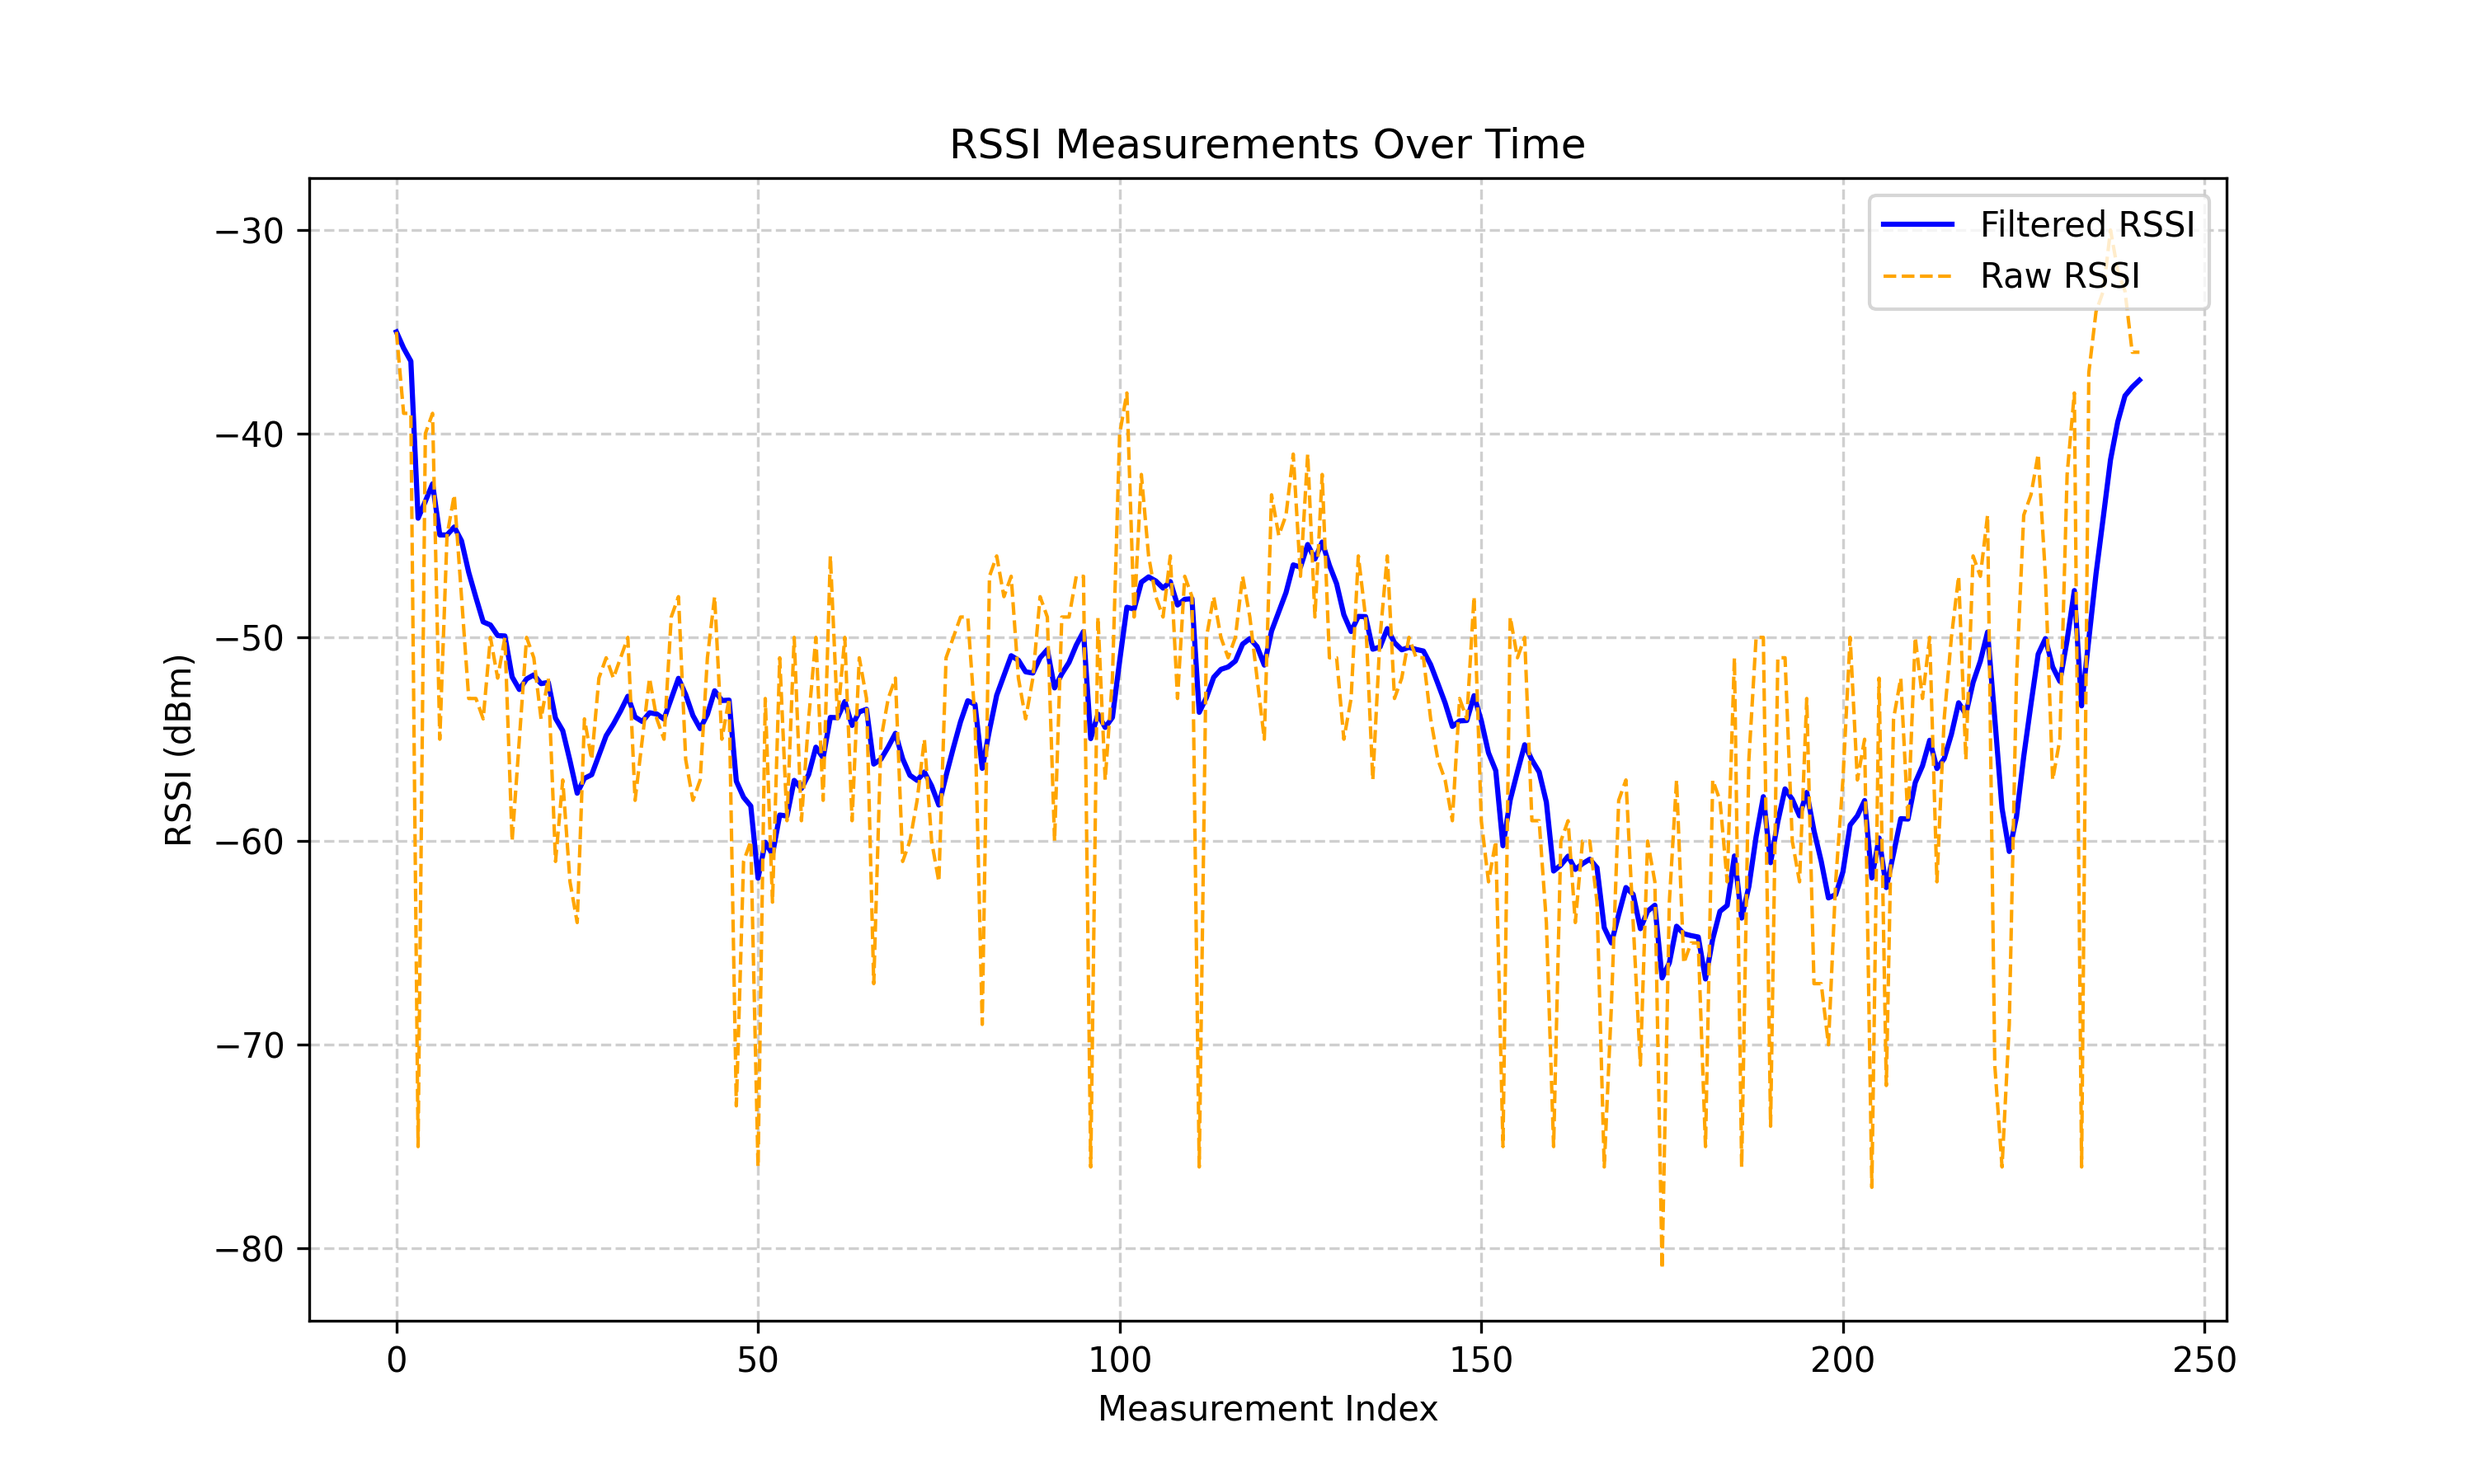
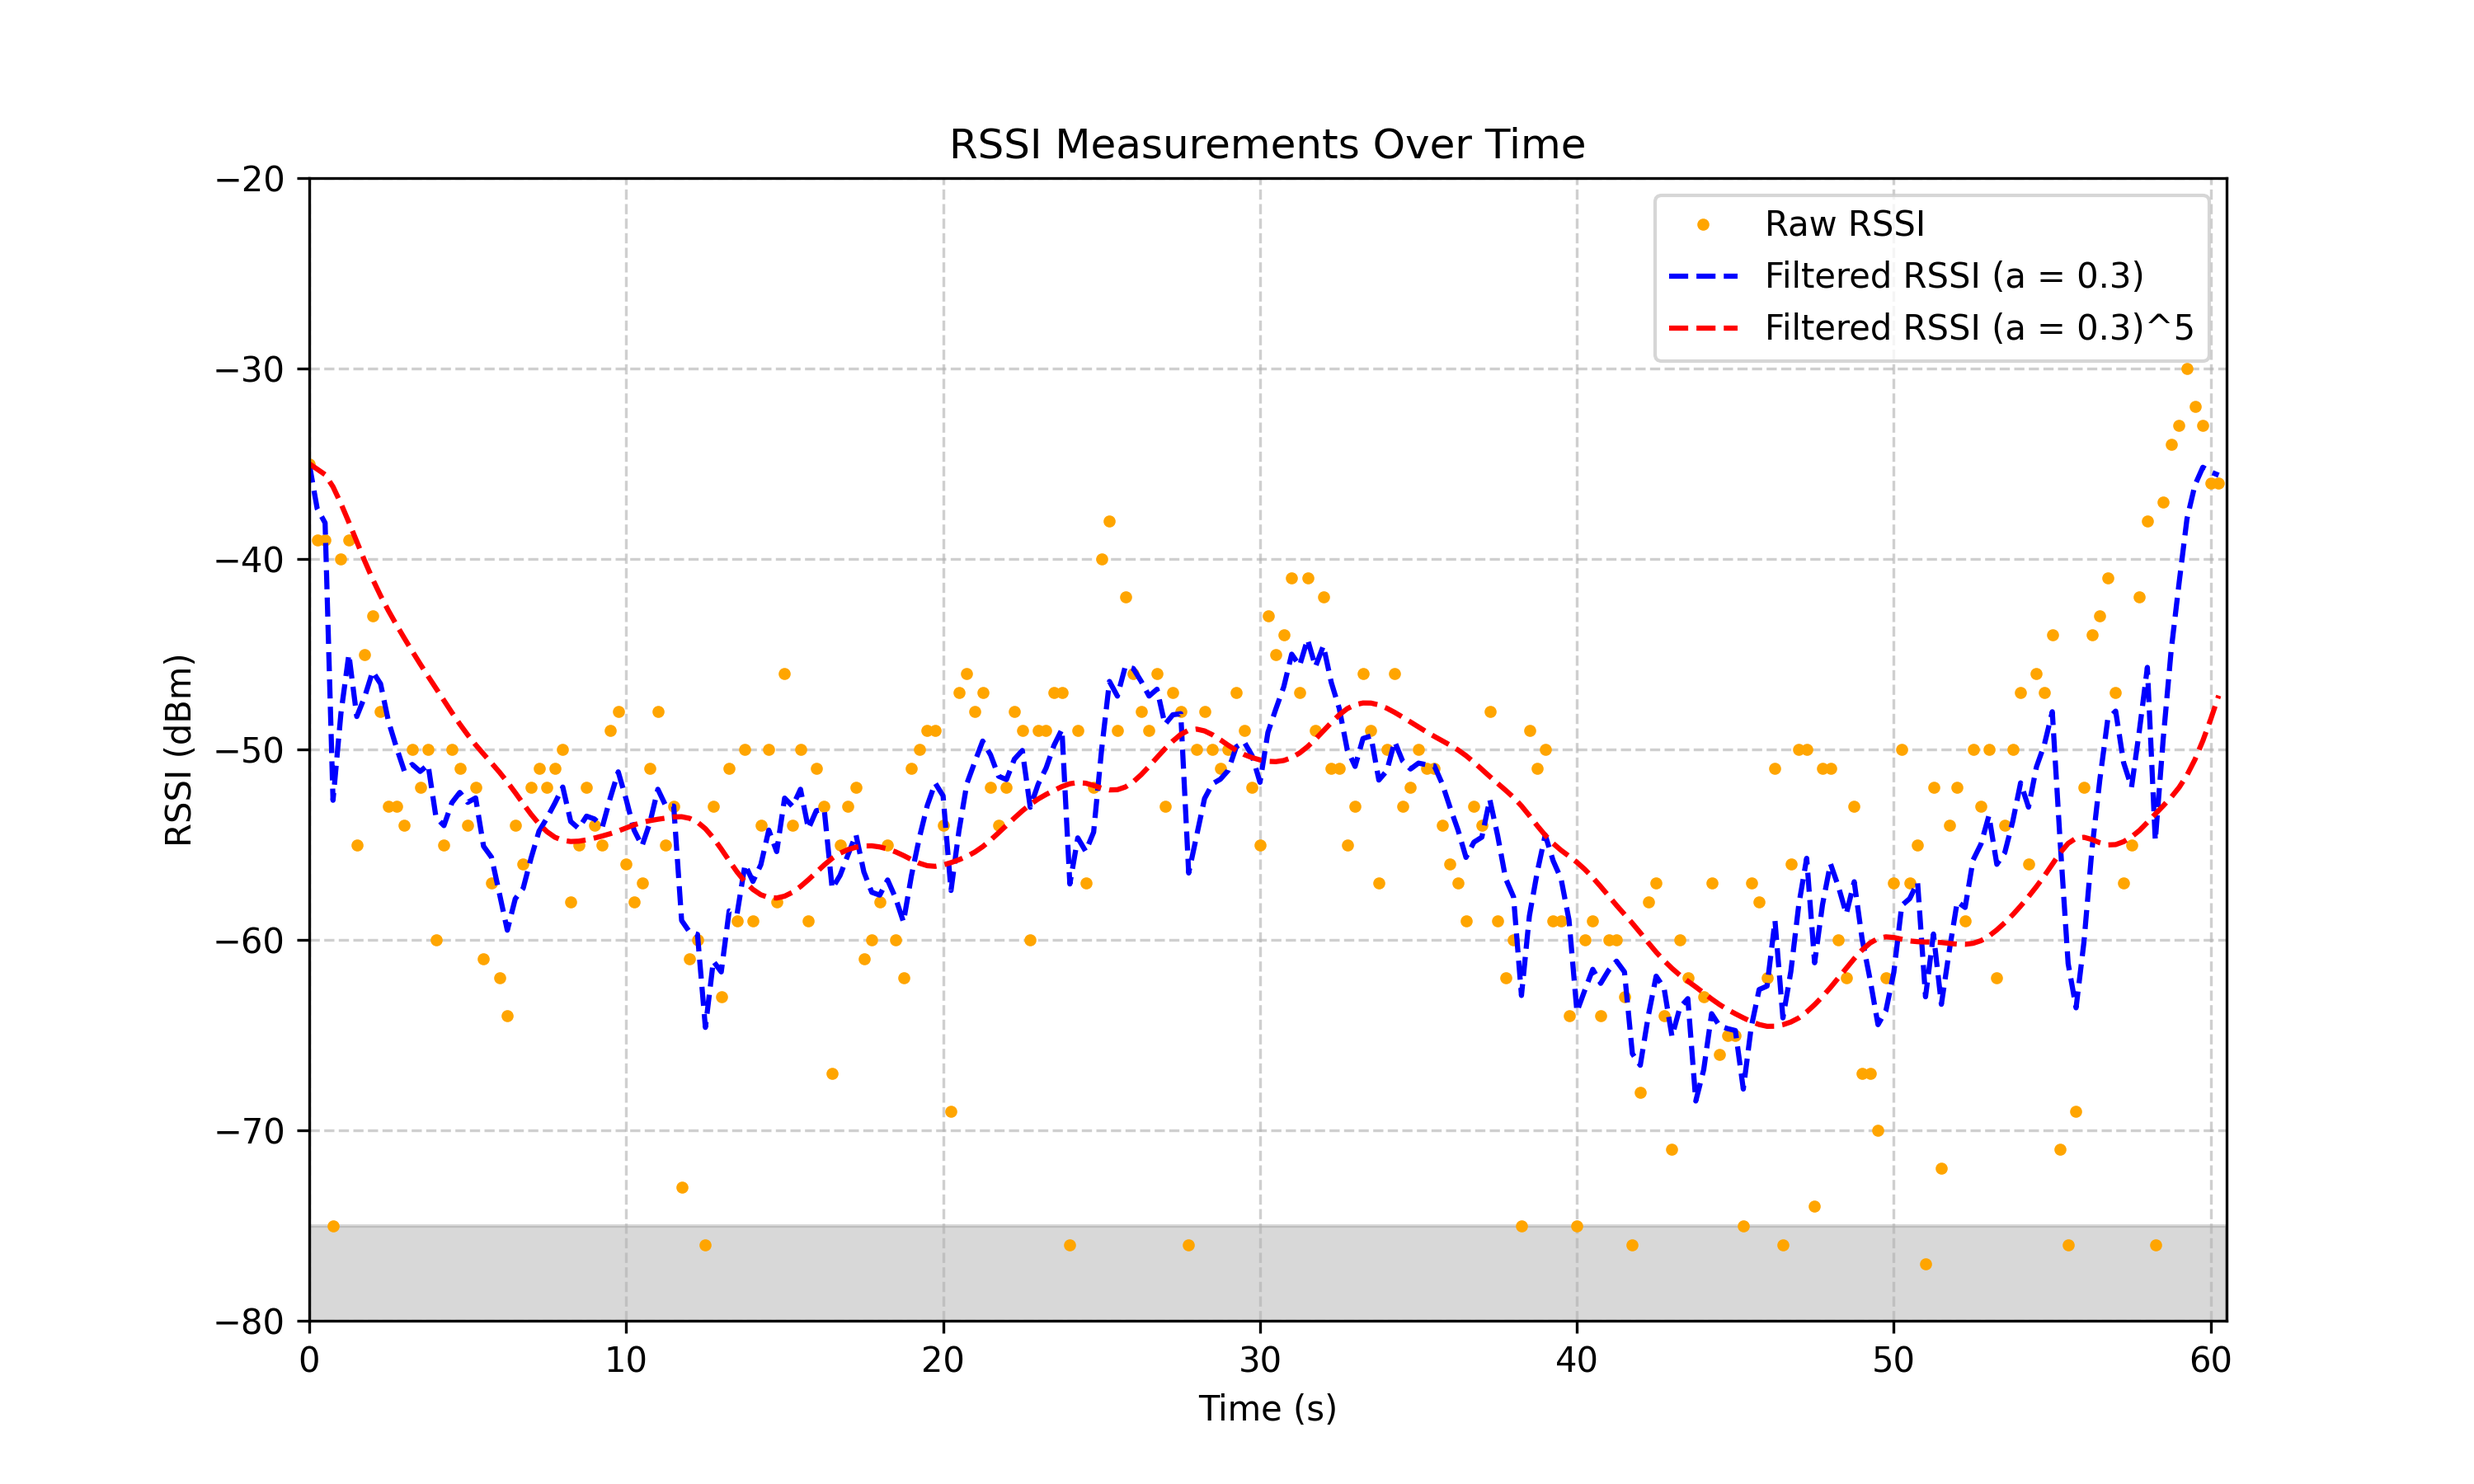
Expand plot with higher order filter and extra visualisation

diff --git a/measurements/plot_measurements.py b/measurements/plot_measurements.py
@@ -1,22 +1,48 @@
 import pandas as pd
 import matplotlib.pyplot as plt
 
+def get_moving_avg_data(data: pd.Series, alpha=0.03):
+    return data.ewm(alpha=alpha).mean()
+
 # Load the CSV file into a DataFrame
 data = pd.read_csv("ble_hid_server_rssi.csv")
 
-# Plot both Filtered_RSSI and Raw values
+# Each measurement is approx. 250ms apart
+# Calculate the time in seconds by multiplying the index by 0.25 and add as a new column
+data['Time (s)'] = data.index * 0.25
+
+# Plot the data
 plt.figure(figsize=(10, 6))
-plt.plot(data['Filtered_RSSI'], label="Filtered RSSI", color="blue", linewidth=1.5)
-plt.plot(data['Raw_RSSI'], label="Raw RSSI", color="orange", linestyle="--", linewidth=1)
+
+# Plot raw RSSI data as points and filtered data as a line
+plt.plot(data['Time (s)'], data['Raw_RSSI'], label="Raw RSSI", color="orange", linestyle="None", marker="o", markersize=2.5)
+# plt.plot(data['Time (s)'], get_moving_avg_data(data['Raw_RSSI'], 0.2), label="Filtered RSSI (a = 0.2)", color="green", linestyle="--", linewidth=1.5)
+
+initial_filtered = get_moving_avg_data(data['Raw_RSSI'], 0.3)
+plt.plot(data['Time (s)'], initial_filtered, label="Filtered RSSI (a = 0.3)", color="blue", linestyle="--", linewidth=1.5)
+
+filtered_second = get_moving_avg_data(initial_filtered, 0.3)
+filtered_third = get_moving_avg_data(filtered_second, 0.3)
+filtered_fourth = get_moving_avg_data(filtered_third, 0.3)
+filtered_fifth = get_moving_avg_data(filtered_fourth, 0.3)
+
+plt.plot(data['Time (s)'], filtered_fifth, label="Filtered RSSI (a = 0.3)^5", color="red", linestyle="--", linewidth=1.5)
 
 # Add labels and title
-plt.xlabel("Measurement Index")
+plt.xlabel("Time (s)")
 plt.ylabel("RSSI (dBm)")
 plt.title("RSSI Measurements Over Time")
 plt.legend(loc="upper right")
 
+# Show the plot until -80 dBm
+plt.ylim(-80, -20)
+plt.xlim(0, len(data) * 0.25)
+
 # Display grid for easier reading
 plt.grid(True, linestyle="--", alpha=0.6)
+
+# Add a grey area to indicate the minimum acceptable RSSI level
+plt.axhspan(-75, -100, color="grey", alpha=0.3)
 
 # Save the plot as an image file
 plt.savefig(data.columns[0] + "_plot.png", dpi=300)
